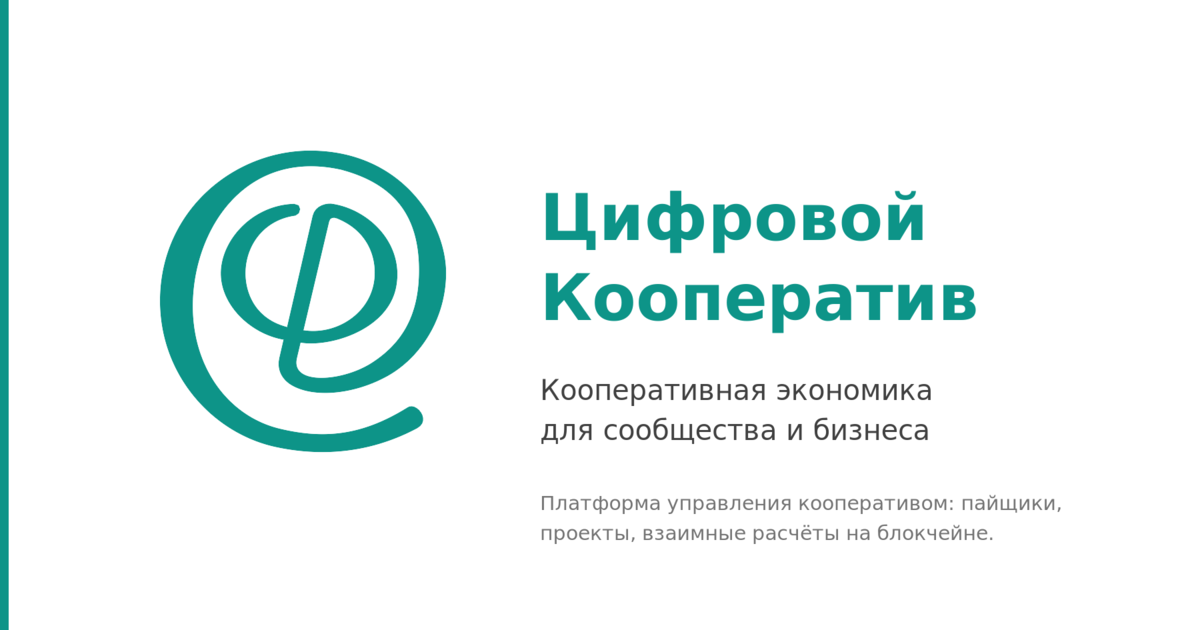
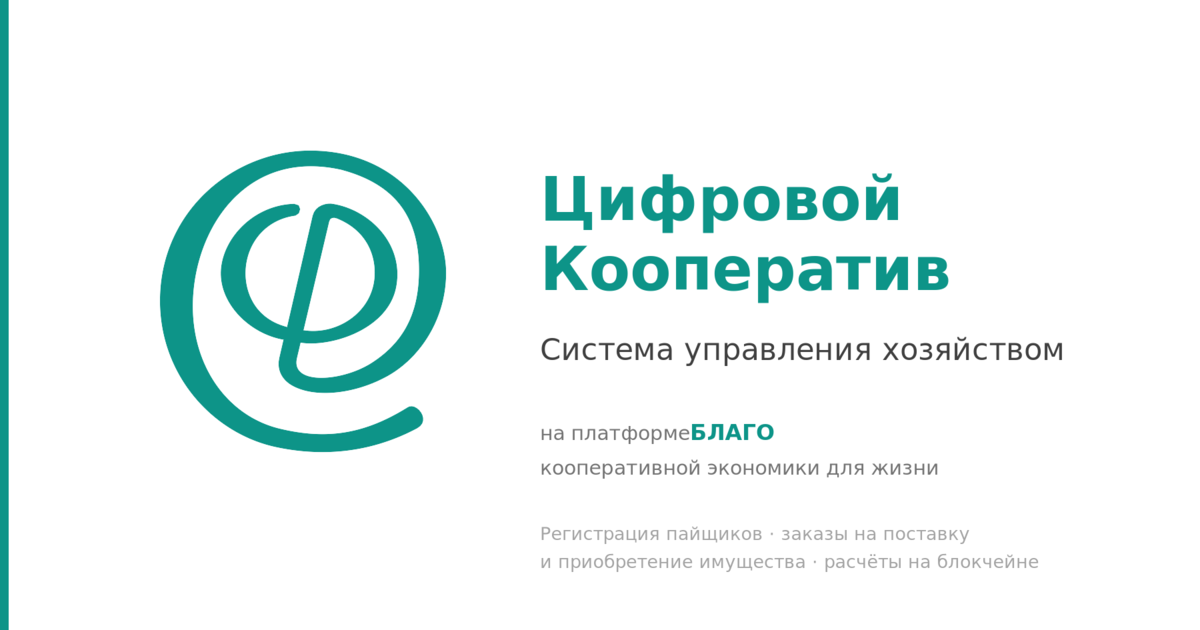
content(brand): обновить превью и мета — система управления хозяйством на платформе «Благо»
- og-image.png перерисован: «Цифровой Кооператив» / «Система управления
  хозяйством» / «на платформе БЛАГО — кооперативной экономики для жизни» /
  «Регистрация пайщиков · заказы на поставку и приобретение имущества ·
  расчёты на блокчейне».
- description / og:description / twitter:description выровнены под этот
  же копирайт. Слово «взаимоотношения с пайщиками» убрано как слишком
  узкое — управление хозяйством включает в себя ещё заказы, реестры
  и документы.

diff --git a/components/desktop/index.html b/components/desktop/index.html
@@ -22,24 +22,24 @@
     <title><%- SITE_TITLE %></title>
     <meta
       name="description"
-      content="Цифровой Кооператив — кооперативная экономика для сообщества и бизнеса. Платформа управления кооперативом: пайщики, проекты, взаимные расчёты на блокчейне."
+      content="Цифровой Кооператив на платформе «Благо» — система управления хозяйством: регистрация пайщиков, заказы на поставку и приобретение имущества, взаимные расчёты на блокчейне."
     />
     <meta property="og:type" content="website" />
     <meta property="og:site_name" content="Цифровой Кооператив" />
     <meta property="og:title" content="<%- SITE_TITLE %>" />
     <meta
       property="og:description"
-      content="Кооперативная экономика для сообщества и бизнеса. Регистрация пайщиков, проекты, взаимные расчёты на блокчейне."
+      content="Цифровой Кооператив — система управления хозяйством на платформе «Благо» (кооперативная экономика для жизни). Регистрация пайщиков, заказы на поставку и приобретение имущества, взаимные расчёты на блокчейне."
     />
     <meta property="og:image" content="/og-image.png" />
     <meta property="og:image:width" content="1200" />
     <meta property="og:image:height" content="630" />
-    <meta property="og:image:alt" content="Цифровой Кооператив" />
+    <meta property="og:image:alt" content="Цифровой Кооператив — система управления хозяйством на платформе «Благо»" />
     <meta name="twitter:card" content="summary_large_image" />
     <meta name="twitter:title" content="<%- SITE_TITLE %>" />
     <meta
       name="twitter:description"
-      content="Кооперативная экономика для сообщества и бизнеса. Регистрация пайщиков, проекты, взаимные расчёты на блокчейне."
+      content="Цифровой Кооператив — система управления хозяйством на платформе «Благо» (кооперативная экономика для жизни). Регистрация пайщиков, заказы на поставку и приобретение имущества, взаимные расчёты на блокчейне."
     />
     <meta name="twitter:image" content="/og-image.png" />
   </head>